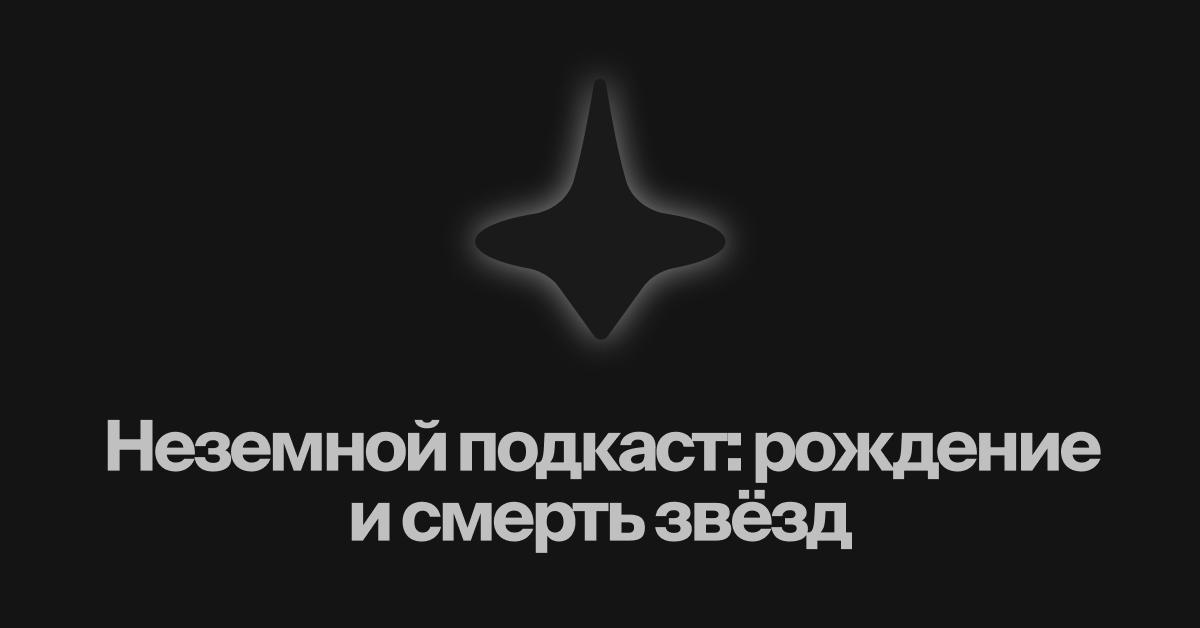
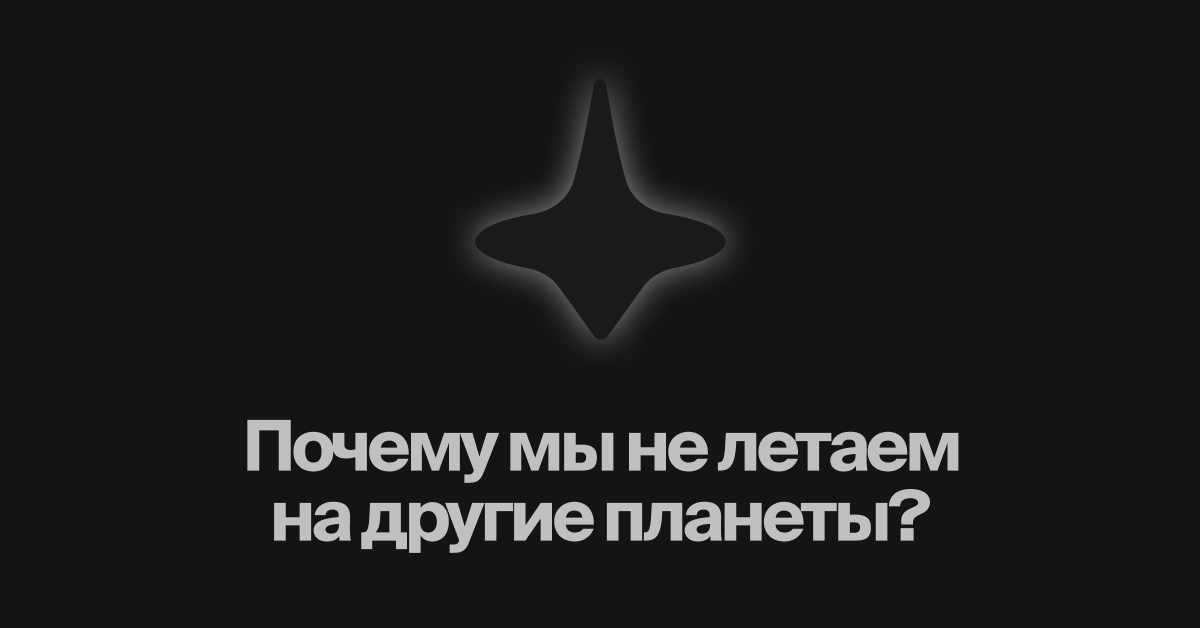
podcast desktop

Changed region(s): [[0.0617, 0.6656, 0.925, 0.8774]]

diff --git a/src/articles/podcasts/stars-life.html b/src/articles/podcasts/stars-life.html
@@ -5,14 +5,14 @@
     <meta name="viewport" content="width=device-width, initial-scale=1.0" />
     <meta
       property="og:title"
-      content="Неземной подкаст: рождение и смерть звёзд"
+      content="Почему мы не летаем на другие планеты?"
     />
     <link rel="icon" type="image/x-icon" href="/src/images/icon.ico" />
     <link rel="icon" type="image/png" href="/src/images/icon.png" />
 
     <!-- Primary Meta Tags -->
-    <title>Неземной подкаст: рождение и смерть звёзд</title>
-    <meta name="title" content="Неземной подкаст: рождение и смерть звёзд" />
+    <title>Почему мы не летаем на другие планеты?</title>
+    <meta name="title" content="Почему мы не летаем на другие планеты?" />
     <meta
       name="description"
       content="Астроном Владимир Сурдин объясняет, когда человечество сможет отправиться на другие планеты, что стоит на пути этих полетов уже сегодня и какой мир станет лучшим кандидатом для освоения."
@@ -26,7 +26,7 @@
     />
     <meta
       property="og:title"
-      content="Неземной подкаст: рождение и смерть звёзд"
+      content="Почему мы не летаем на другие планеты?"
     />
     <meta
       property="og:description"
@@ -45,7 +45,7 @@
     />
     <meta
       property="twitter:title"
-      content="Неземной подкаст: рождение и смерть звёзд"
+      content="Почему мы не летаем на другие планеты?"
     />
     <meta
       property="twitter:description"
@@ -62,69 +62,51 @@
 
     <!------------------------- Article ----------------------->
     <section class="O_articleTitle">
-      <div class="A_testLevelTags none">Лекция</div>
+      <div class="A_testLevelTags none">Подкаст</div>
       <div class="M_articleTitle">
-        <h4 class="A_h4">Время просмотра: 24 минуты</h4>
-        <h1 class="A_H1">Что такое чёрная дыра простыми словами?</h1>
+        <h4 class="A_h4">Время прослушивания: 45 минут</h4>
+        <h1 class="A_H1">Почему мы не летаем на другие планеты?</h1>
       </div>
     </section>
 
-    <article class="S_lecture">
-      <div class="A_player">
-        <div class="Q_playerImg"></div>
-        <div class="Q_play"></div>
-      </div>
-
-      <div class="W_descriptonLecture">
+    <article class="S_podcast">
+      <img
+        class="A_podcastImage starLife"
+        src="/src/images/articles/podcasts/stars-life/star-life-cover.webp"
+        alt="Неземной подкаст"
+      />
+      <div class="W_descriptonPodcast">
         <div class="M_articleText">
-          <h3 class="A_h3">О лекции</h3>
+          <h3 class="A_h3">О подкасте</h3>
           <h4 class="A_h4">
-            Чёрная дыра — это область в пространстве-времени, которая имеет
-            гравитационное притяжение настолько сильное, что ничто, даже свет,
-            не может её покинуть. Уже третье столетие учёные изучают
-            эти загадочные объекты, но до сих пор никто из них не может сказать
-            точно, как на самом деле они устроены. Так что же нам известно
-            о чёрных дырах сегодня? Какие они бывают? Что из себя представляют?
-            Наконец, опасны ли чёрные дыры? Мы попытались ответить
-            на эти и многие другие животрепещущие вопросы о чёрных дырах.
+            Астроном Владимир Сурдин объясняет, когда человечество сможет
+            отправиться на другие планеты, что стоит на пути этих полетов уже
+            сегодня и какой мир станет лучшим кандидатом для освоения.
           </h4>
         </div>
         <div class="O_statistic">
           <div class="M_seen">
             <div class="Q_eye"></div>
-            <h3 class="A_h3">372 924</h3>
+            <h3 class="A_h3">2 405</h3>
           </div>
           <div class="M_likes">
             <div class="Q_like"></div>
-            <h3 class="A_h3">9 900</h3>
+            <h3 class="A_h3">23</h3>
           </div>
         </div>
+        <div class="Q_podcast"></div>
       </div>
 
       <div class="W_articleEnd">
-        <h2 class="A_h2">Слушай подкасты для закрепления материала</h2>
-        <a href="" class="O_cardArticle small">
-          <div class="M_cardArticle small">
-            <div class="Q_cardArticleImg small"></div>
-            <div class="A_testLevelTags none">Подкаст</div>
+        <h2 class="A_h2">Почитай исследование для закрепления материала</h2>
+        <a href="" class="O_cardArticle big">
+          <div class="M_cardArticle big">
+            <div class="Q_cardArticleImg big"></div>
+            <div class="A_testLevelTags none">Исследование</div>
           </div>
-          <h3 class="A_h3">10 уникальных туманностей: всё о туманностях</h3>
-        </a>
-
-        <a href="" class="O_cardArticle small">
-          <div class="M_cardArticle small">
-            <div class="Q_cardArticleImg small"></div>
-            <div class="A_testLevelTags none">Подкаст</div>
-          </div>
-          <h3 class="A_h3">Чёрная дыра против тёмной материи</h3>
-        </a>
-
-        <a href="" class="O_cardArticle small">
-          <div class="M_cardArticle small">
-            <div class="Q_cardArticleImg small"></div>
-            <div class="A_testLevelTags none">Подкаст</div>
-          </div>
-          <h3 class="A_h3">Почему мы не летаем на другие планеты?</h3>
+          <h3 class="A_h3">
+            Экзопланеты: методы обнаружения и перспективы изучения
+          </h3>
         </a>
       </div>
     </article>

diff --git a/src/stylesheets/stars-life.scss b/src/stylesheets/stars-life.scss
@@ -1,0 +1,59 @@
+.S_podcast {
+  margin: 0 auto;
+  max-width: 90rem;
+  padding: 0 2.5rem;
+  display: flex;
+  flex-direction: row;
+  flex-wrap: wrap;
+  gap: 7rem 2.5rem;
+  justify-content: space-between;
+
+  .M_articleText {
+    width: 100%;
+    width: 100%;
+    gap: 2rem;
+
+    .A_h3,
+    .A_h4 {
+      width: 100%;
+      text-align: left;
+    }
+  }
+  .W_articleEnd {
+    grid-template: auto / 1fr;
+    margin: 0 auto;
+    justify-items: center;
+
+    .O_cardArticle.big {
+      .A_h3 {
+        max-width: 27rem;
+      }
+    }
+  }
+}
+
+.A_podcastImage {
+  width: 31.25rem;
+  height: 31.25rem;
+  border-radius: var(--radiusSmall);
+}
+
+.W_descriptonPodcast {
+  display: flex;
+  width: 51rem;
+  gap: 0 17rem;
+  flex-wrap: wrap;
+  align-items: flex-end;
+
+  .M_articleText {
+    align-self: flex-start;
+  }
+}
+
+.Q_podcast {
+  background-image: url('/src/images/articles/podcasts/yandex.webp');
+  width: 22rem;
+  height: 7rem;
+  background-size: contain;
+  border-radius: var(--radiusSmall);
+}
